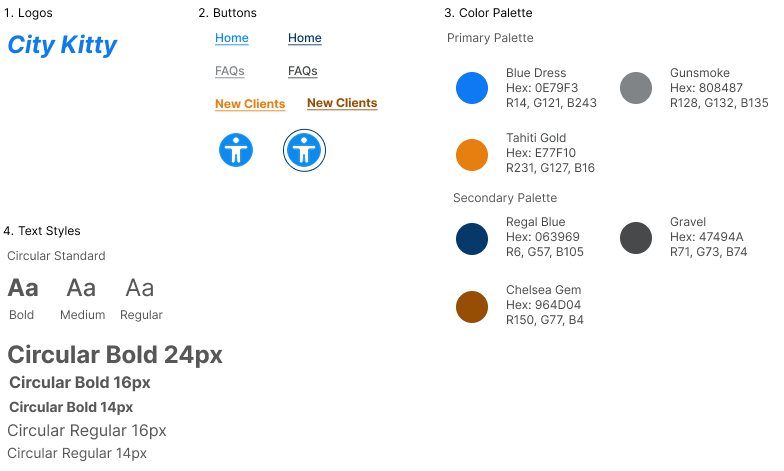
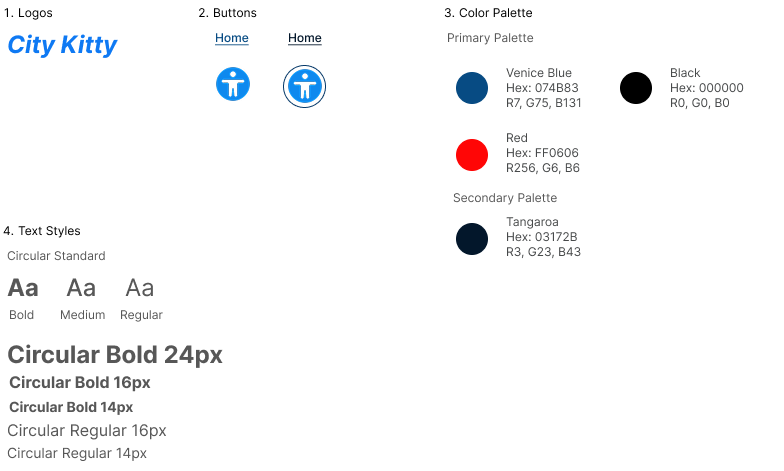
Added background image to the top div

diff --git a/index.html b/index.html
@@ -27,28 +27,33 @@
       </div>
       <div>
         <p>
-          This study aims at redesigning the home page of the website of City Kitty, 
-          a local vet in Providence providing healthcare for cats. I chose this website 
-          because I plan to take my cat to City Kitty for a vet visit. I chose this interface 
-          because I saw some design problems in it, such as the buttons did not present themselves 
-          as clickable, making it hard for users to learn the interface. 
+          Hi there! This is Shuyi again with my studies in interaction design. I am doing a webpage responsive redesign project 
+          for my Interaction Design class at Brown University. This project aims at redesigning <a href="https://city-kitty.com/">the home page of the website of City Kitty</a>, 
+          which is a local vet in Providence providing healthcare for cats. I chose this website 
+          because I plan to take my cat to City Kitty for a vet visit. I noticed some design deficiencies in its home page, such as the buttons did not present themselves 
+          as clickable, making it hard for users to learn the interface. In this design project I will incorporate my understanding of interaction design and 
+          present my ideas about how to redesign the webpage to make it more learnable, efficient, memorable and hopefully accessible. I will also create a webpage in HTML/CSS 
+          and incorporate the concept of responsive design into it. This HTML/CSS page will be nicely formatted on screens of various sizes, ranging from a laptop to a tablet, 
+          and also a smartphone. Below is a screenshot of the webpage before my redesign.
         </p>
-        <a href="https://city-kitty.com/">Go to the webpage</a>
         <img id="screenshot" src="assets/city_kitty_screenshot.png" alt="Home page screenshot">
       </div>
       <div>
         <h2 class="sectionTitle">0. Finding Problems</h2>
       </div>
       <div>
+        I noticed a few problems with respect to this webpage's efficiency, learnability and memorability. These 
+        are potential problems that make the webpage hard to use for the general users. I also have some ideas about how to 
+        improve this webpage in these three categories and will list them below:
         <h4 class="subTitle">Efficiency:</h4>
         <ul>
           <li>
-            Because users usually read from left to right and then top to bottom, I 
+            Currently the buttons are positioned vertically as directions in a street sign. Because users usually read from left to right and then top to bottom, I 
             think laying out the clickable buttons horizontally at the top will be 
             more efficient.
           </li>
           <li>
-            In addition, the text on the buttons are not written horizontally, but instead 
+            In addition, the text on the buttons are not written 100% horizontally, but instead 
             with some angles, which makes it harder for the users to read. I suggest making them 
             all horizontal and parallel.
           </li>
@@ -73,15 +78,13 @@
           <li>
             All the clickable items are laid out with the same design without clear hierarchies, 
             which makes it harder to memorize for the users. For a redesign, I would place some buttons 
-            on the top right corner and the others above the title to make it more memorable.
-          </li>
-          <li>
-            The important information such as address and phone number is not highlighted red while 
-            the less important messages, such as the welcome message, are highlighted red.
+            on the top right corner and the others below the title, with some in bold text and some not, to make it more memorable.
           </li>
         </ul>
       </div>
       <div>
+        Besides efficiency, memorability and learnability, I also ran the webpage through WebAIM WAVE to test its accessibillity. 
+        The page performs relatively well in this criteria but some problems are still identified.
         <h4 class="subTitle">Accessibility:</h4>
         <ul>
           <li>
@@ -94,7 +97,7 @@
           </li>
           <li>
             I think the suspicious link text alert occured because the link was inserted in a block of text and does not 
-            make consistent sense in its context. The link could be wrapped in a more meaningful sentence.
+            make consistent semantic sense in its context.
           </li>
         </ul>
       </div>
@@ -102,15 +105,16 @@
         <h2 class="sectionTitle">1. Visual Redesign</h2>
       </div>
       <div>
-        I created a visual design guide for my redesign of the webpage. It is currently a preliminary version 
-        of the design plan, as shown in the image below. 
+        Based on my findings above, I created a visual design guide for my redesign of the webpage, outlining the logo(s), buttons, color palette and fonts.
+        The redesign focuses on simplicity and usability with clear hierarchies indicated by different font colors and font sizes. 
         <img id="visualDesignGuide" src="assets/visual_design_guide.png" alt="Visual design guide">
       </div>
       <div>
         <h2 class="sectionTitle">2. Mockups</h2>
       </div>
+      <div>I then created mockups for three different screen sizes/types. </div>
       <div>
-        <h4 class="subTitle">Desktop:</h4>
+        <h4 class="subTitle">Laptop:</h4>
         <img id="desktopRedesign" src="assets/desktop_redesign.png" alt="Desktop Redesign Mockup">
       </div>
       <div>
@@ -153,63 +157,65 @@
         </li>
       </ul>
       <div id="webpage">
-        <div id="topContainer">
-          <div id="floatingButtons">
-            <div class="greyButtonText">FAQs</div>
-            <div class="greyButtonText">Links</div>
-            <div class="greyButtonText">Join Our Team</div>
+        <div id="header">
+          <div id="topContainer">
+            <div id="floatingButtons">
+              <div class="greyButtonText">FAQs</div>
+              <div class="greyButtonText">Links</div>
+              <div class="greyButtonText">Join Our Team</div>
+            </div>
+            <div id="title">City Kitty</div>
           </div>
-          <div id="title">City Kitty</div>
-        </div>
-        <div id="buttons">
-          <div id="firstRow">
-            <div class="Column1">
-              <div class="blueButtonText">Home</div>
+          <div id="buttons">
+            <div id="firstRow">
+              <div class="Column1">
+                <div class="blueButtonText">Home</div>
+              </div>
+              <div class="Column2">
+                <div class="blueButtonText">Hours and Directions</div>
+              </div>
+              <div class="Column3">
+                <div class="blueButtonText">Online Store</div>
+              </div>
+              <div class="Column4">
+                <div class="blueButtonText">Meet Our Staff</div>
+              </div>
+              <div class="Column5">
+                <div class="blueButtonText">Our Reviews</div>
+              </div>
             </div>
-            <div class="Column2">
-              <div class="blueButtonText">Hours and Directions</div>
+            <div id="secondRow">
+              <div class="Column1">
+                <div class="blueButtonText">Google Map</div>
+              </div>
+              <div class="Column2">
+                <div class="blueButtonText">Memorials</div>
+              </div>
+              <div class="Column3">
+                <div class="blueButtonText">Helpful Videos</div>
+              </div>
+              <div class="Column4">
+                <div class="blueButtonText">Call Us</div>
+              </div>
+              <div class="Column5">
+                <div class="blueButtonText">Email</div>
+              </div>
             </div>
-            <div class="Column3">
-              <div class="blueButtonText">Online Store</div>
+            <div id="thirdRow">
+              <div class="Column1">
+                <div class="orangeButtonText">Routine Care</div>
+              </div>
+              <div class="Column2">
+                <div class="orangeButtonText">Surgical and Dental Procedures</div>
+              </div>
+              <div class="Column3">
+                <div class="orangeButtonText">New Clients</div>
+              </div>
+              <div class="Column4">
+                <div class="orangeButtonText">Request an Appointment</div>
+              </div>
+              <div class="Column5" id="invisibleButton"></div>
             </div>
-            <div class="Column4">
-              <div class="blueButtonText">Meet Our Staff</div>
-            </div>
-            <div class="Column5">
-              <div class="blueButtonText">Our Reviews</div>
-            </div>
-          </div>
-          <div id="secondRow">
-            <div class="Column1">
-              <div class="blueButtonText">Google Map</div>
-            </div>
-            <div class="Column2">
-              <div class="blueButtonText">Memorials</div>
-            </div>
-            <div class="Column3">
-              <div class="blueButtonText">Helpful Videos</div>
-            </div>
-            <div class="Column4">
-              <div class="blueButtonText">Call Us</div>
-            </div>
-            <div class="Column5">
-              <div class="blueButtonText">Email</div>
-            </div>
-          </div>
-          <div id="thirdRow">
-            <div class="Column1">
-              <div class="orangeButtonText">Routine Care</div>
-            </div>
-            <div class="Column2">
-              <div class="orangeButtonText">Surgical and Dental Procedures</div>
-            </div>
-            <div class="Column3">
-              <div class="orangeButtonText">New Clients</div>
-            </div>
-            <div class="Column4">
-              <div class="orangeButtonText">Request an Appointment</div>
-            </div>
-            <div class="Column5" id="invisibleButton"></div>
           </div>
         </div>
         <div id="imageAndBody">

diff --git a/styles.css b/styles.css
@@ -63,7 +63,7 @@ h4 {
 }
 .greyButtonText {
   display: inline-block;
-  color: #808487;
+  color: #074B83;
   flex: 1;
   padding: 10px;
   text-align: left;
@@ -71,7 +71,14 @@ h4 {
   cursor: pointer;
 }
 .greyButtonText:hover {
-  color: #47494A;
+  color: #03172B;
+}
+#header {
+  background-color: rgba(91, 203, 255, 0.23);
+  background-image: url('assets/CityKitty_MainBG-1-1_phone.png');
+  background-size: 100%;
+  background-position: top center;
+  background-repeat: no-repeat;
 }
 #buttons {
   display: flex;
@@ -82,81 +89,69 @@ h4 {
   display: flex;
   flex-direction: row;
   justify-content: space-between;
+  align-items: center;
   margin-top: 35px;
 }
 .Column1 {
   display: flex;
   justify-content: center;
-  border-left: 1px solid #808487;
-  border-right: 1px solid #808487;
-  box-sizing: border-box;
   width: 12vw;
   word-wrap: break-word;
 }
 .Column2 {
   display: flex;
   justify-content: center;
-  border-left: 1px solid #808487;
-  border-right: 1px solid #808487;
-  box-sizing: border-box;
   width: 20vw;
   word-wrap: break-word;
 }
 .Column3 {
   display: flex;
   justify-content: center;
-  border-left: 1px solid #808487;
-  border-right: 1px solid #808487;
-  box-sizing: border-box;
   width: 12vw;
   word-wrap: break-word;
 }
 .Column4 {
   display: flex;
   justify-content: center;
-  border-left: 1px solid #808487;
-  border-right: 1px solid #808487;
-  box-sizing: border-box;
   width: 20vw;
   word-wrap: break-word;
 }
 .Column5 {
   display: flex;
   justify-content: center;
-  border-left: 1px solid #808487;
-  border-right: 1px solid #808487;
-  box-sizing: border-box;
   width: 12vw;
   word-wrap: break-word;
 }
 .blueButtonText {
-  color: #0E89EE;
+  color: #074B83;
   text-decoration: underline;
   text-align: center;
   cursor: pointer;
 }
 .blueButtonText:hover {
-  color: #063969;
+  color: #03172B;
 }
 #secondRow {
   display: flex;
   flex-direction: row;
   justify-content: space-between;
+  align-items: center;
 }
 #thirdRow {
   display: flex;
   flex-direction: row;
   justify-content: space-between;
+  align-items: center;
 }
 .orangeButtonText {
-  color: #E77F10;
+  color: #074B83;
   font-weight: bold;
   text-decoration: underline;
   text-align: center;
   cursor: pointer;
 }
 .orangeButtonText:hover {
-  color: #964D04;
+  color: #03172B;
 }
 #invisibleButton {
   visibility: hidden;
@@ -183,12 +178,12 @@ h4 {
   font-weight: bold;
 }
 .blueLinkText {
-  color: #0E89EE;
+  color: #074B83;
   text-decoration: underline;
   cursor: pointer;
 }
 .blueLinkText:hover {
-  color: #063969;
+  color: #03172B;
 }
 #webAccessibility {
   margin-top: 1%;
